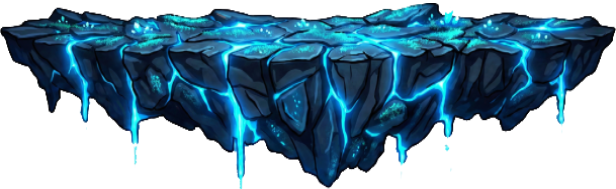
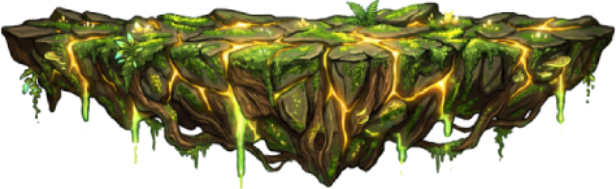
맵 인덱싱 0번 부터로 통일 시키기

diff --git a/Source/MapGenerator.py b/Source/MapGenerator.py
@@ -108,10 +108,10 @@ def init_map(map_type=1):
     global ingame_bgs, platform_imgs
     if not ingame_bgs:
         for i in range(3):
-            ingame_bgs.append(load_image(f'UI/InGame_bg_{i + 1}.png'))
+            ingame_bgs.append(load_image(f'UI/InGame_bg_{i}.png'))
     if not platform_imgs:
         for i in range(3):
-            platform_imgs.append(load_image(f'UI/platform_{i + 1}.png'))
+            platform_imgs.append(load_image(f'UI/platform_{i}.png'))
 
     gv.map_idx = map_type - 1
 
